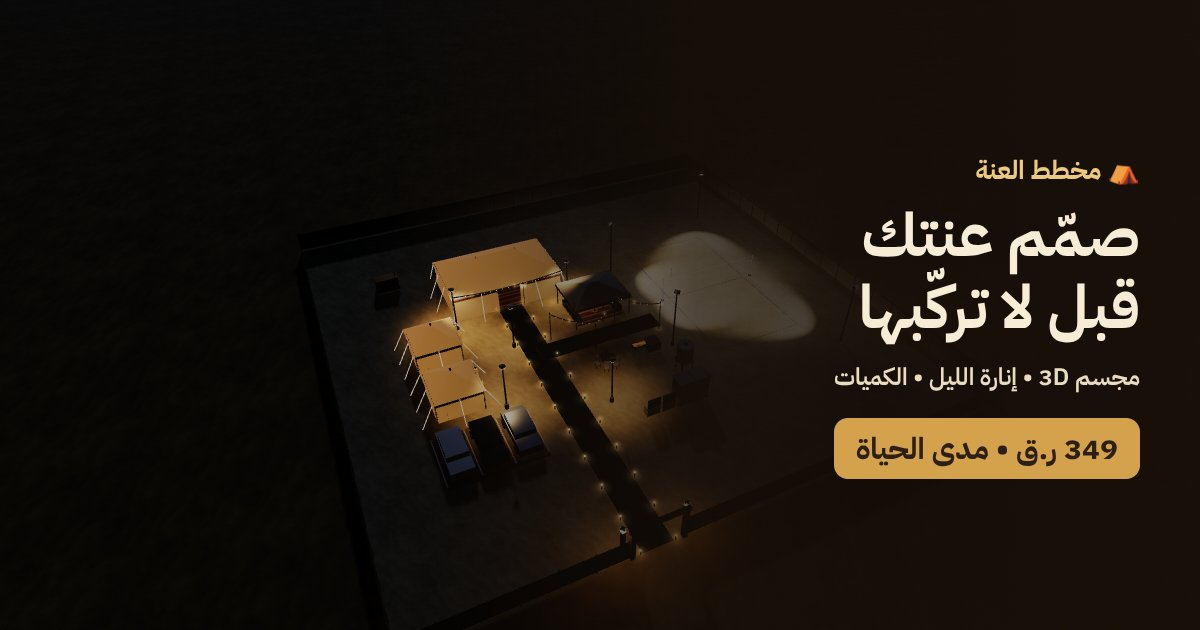
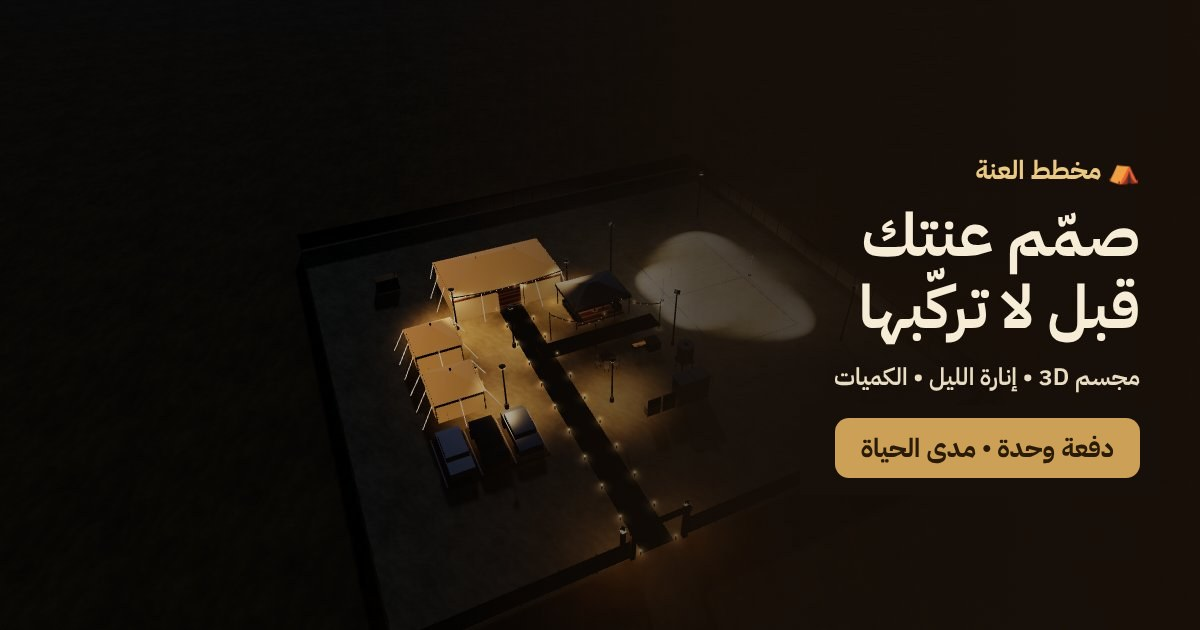
صورة المشاركة والوصف بدون سعر ثابت
Claude-Session: https://claude.ai/code/session_01T5QFqY7QjvRGPhoaaiQ6Wk

Changed region(s): [[0.7092, 0.6937, 0.9558, 0.754]]

diff --git a/index.html b/index.html
@@ -20,14 +20,14 @@
     <meta property="og:locale" content="ar_QA" />
     <meta property="og:url" content="https://al-enna-planner-production.up.railway.app/" />
     <meta property="og:title" content="مخطط العنة — صمّم عنتك قبل لا تركّبها" />
-    <meta property="og:description" content="وزّع الخيام والملعب والممرات بالمتر، شوفها 3D، وجرّب إنارة الليل قبل ما تشتري شي. 349 ر.ق دفعة وحدة — مدى الحياة." />
+    <meta property="og:description" content="وزّع الخيام والملعب والممرات بالمتر، شوفها 3D، وجرّب إنارة الليل قبل ما تشتري شي. دفعة وحدة — مدى الحياة." />
     <meta property="og:image" content="https://al-enna-planner-production.up.railway.app/og.jpg" />
     <meta property="og:image:width" content="1200" />
     <meta property="og:image:height" content="630" />
     <meta property="og:image:alt" content="مجسم ثلاثي الأبعاد لعنة قطرية في الليل مع الإنارة" />
     <meta name="twitter:card" content="summary_large_image" />
     <meta name="twitter:title" content="مخطط العنة — صمّم عنتك قبل لا تركّبها" />
-    <meta name="twitter:description" content="مجسم 3D • إنارة الليل • الكميات — 349 ر.ق مدى الحياة" />
+    <meta name="twitter:description" content="مجسم 3D • إنارة الليل • الكميات — دفعة وحدة مدى الحياة" />
     <meta name="twitter:image" content="https://al-enna-planner-production.up.railway.app/og.jpg" />
   </head>
   <body>

diff --git a/CHANGELOG-ROUNDS.md b/CHANGELOG-ROUNDS.md
@@ -32,3 +32,4 @@
 - 2026-11-03 — تذكير لطيف بالنسخة الاحتياطية (بعد 3 أيام، مرة كل 3 أيام، وما يطلع للي مثبّت التطبيق): لأن سفاري يمسح بيانات المواقع اللي ما تنفتح أسبوع — زر «حفظ نسخة» ينزّل ملف المشروع.
 - 2026-11-03 — الملكية: «تطوير وتشغيل وملكية: نقلة لحلول المواقع (Naqla For Website Solutions)» + حقوق النشر في صفحة الشراء (مع اسم البائع اللي يطلع في إيصال الدفع)، القائمة، المساعدة، وتقرير PDF.
 - لوحة الإدارة: «💰 السعر والعروض» — تغيير السعر والسعر قبل الخصم وخصم/مكافأة الإحالة بدون Railway (تتخزن في /data)
+- صورة المشاركة والوصف بدون سعر ثابت («دفعة وحدة • مدى الحياة») عشان السعر يتغيّر من اللوحة
